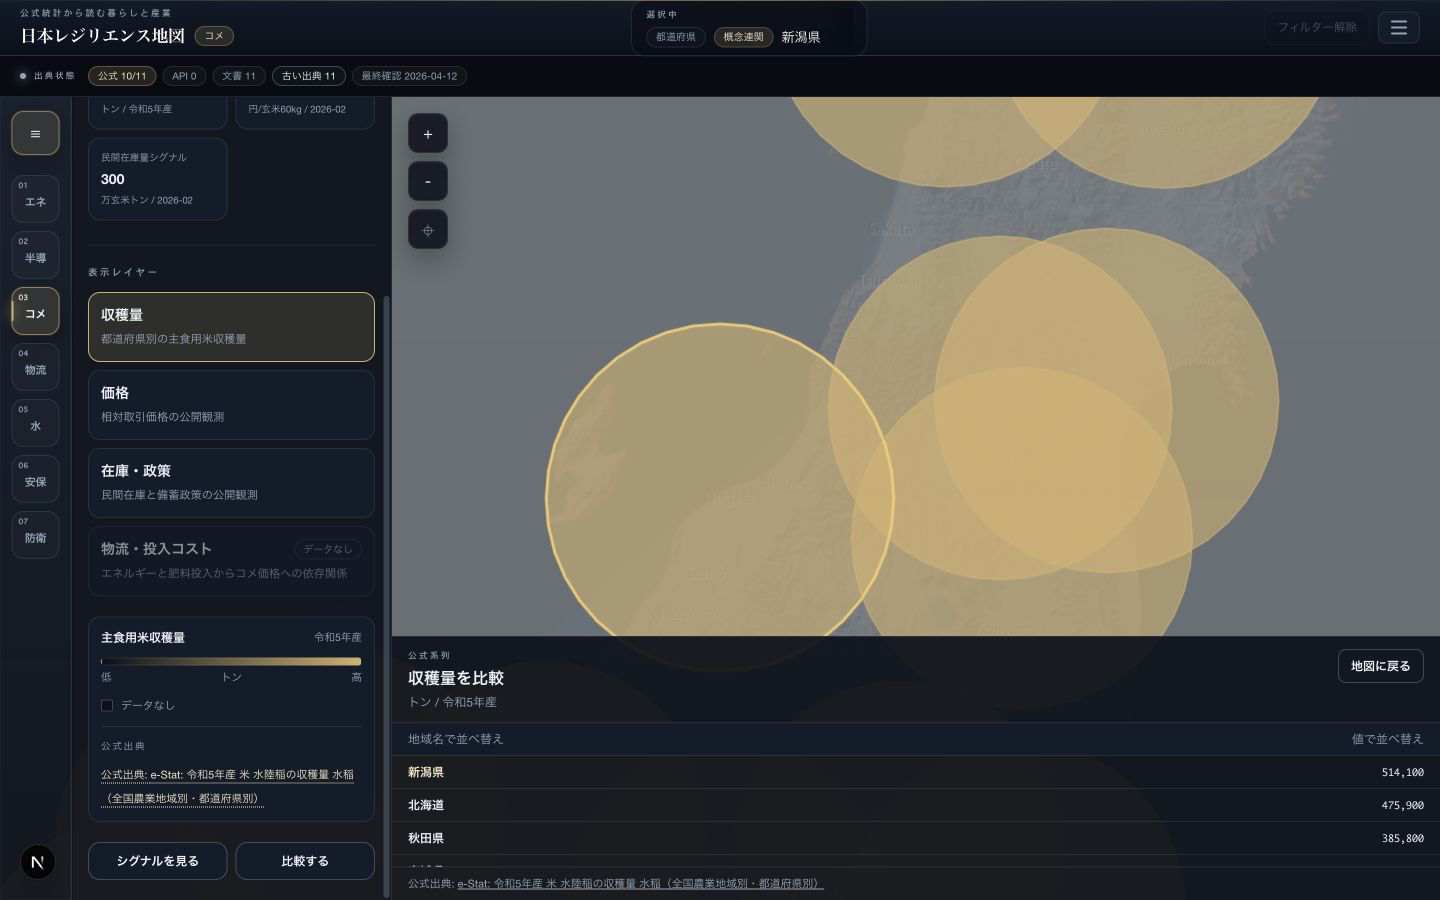
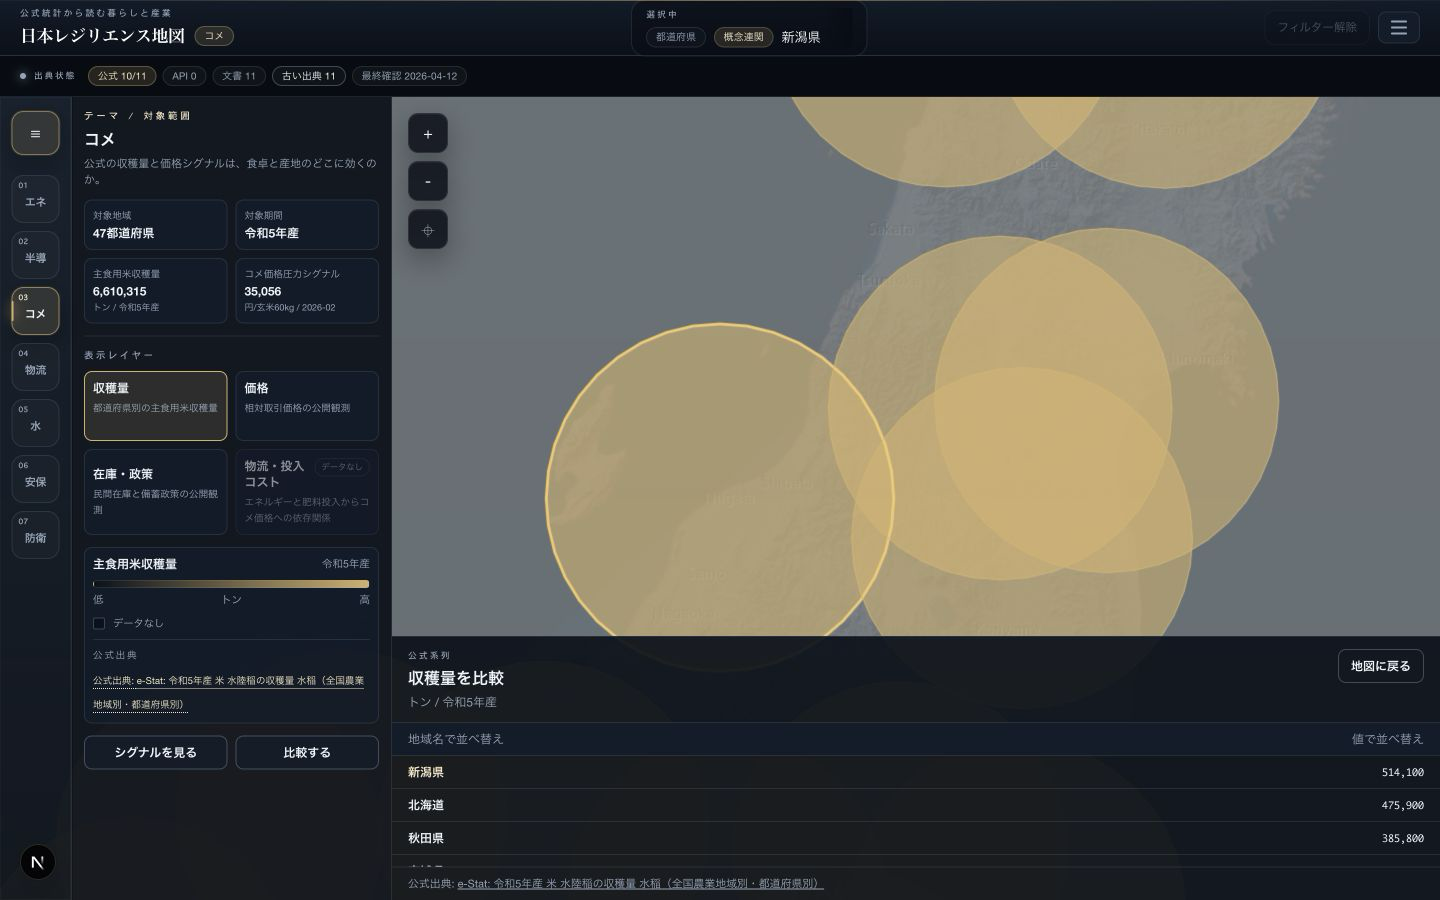
fix: keep desktop evidence visible and unique

diff --git a/components/ScopeContextPanel.tsx b/components/ScopeContextPanel.tsx
@@ -34,19 +34,19 @@ export function ScopeContextPanel({
   const resolvedActiveLayerId = activeLayer?.id;
 
   return (
-    <div data-testid="scope-context-panel" className="h-full overflow-y-auto px-4 py-5">
+    <div data-testid="scope-context-panel" className="h-full overflow-y-auto px-3 py-3">
       <div>
         <div className="font-mono text-[0.6rem] uppercase tracking-[0.28em]" style={{ color: themePalette.accentText }}>
           テーマ / 対象範囲
         </div>
-        <h2 className="mt-2 text-lg font-semibold" style={{ color: themePalette.textPrimary }}>{workspace.scope.title}</h2>
-        <p className="mt-2 text-[0.72rem] leading-5" style={{ color: themePalette.textMuted }}>{workspace.scope.description}</p>
+        <h2 className="mt-1 text-base font-semibold" style={{ color: themePalette.textPrimary }}>{workspace.scope.title}</h2>
+        <p className="mt-1 text-[0.68rem] leading-4" style={{ color: themePalette.textMuted }}>{workspace.scope.description}</p>
       </div>
 
-      <section aria-label="対象範囲の要約" className="mt-5 grid grid-cols-2 gap-2">
+      <section aria-label="対象範囲の要約" className="mt-3 grid grid-cols-2 gap-2">
         <SummaryCard label={workspace.scope.coverage.label} value={workspace.scope.coverage.value} themePalette={themePalette} />
         <SummaryCard label="対象期間" value={workspace.scope.periodLabel} themePalette={themePalette} />
-        {workspace.scope.metrics.slice(0, 4).map((metric) => (
+        {workspace.scope.metrics.slice(0, 2).map((metric) => (
           <SummaryCard
             key={metric.id}
             label={metric.label}
@@ -57,7 +57,7 @@ export function ScopeContextPanel({
         ))}
       </section>
 
-      <div className="mt-6 border-t pt-5" style={{ borderColor: themePalette.borderSubtle }}>
+      <div className="mt-3 border-t pt-3" style={{ borderColor: themePalette.borderSubtle }}>
         <SemanticLayerDeck
           activeLayerId={resolvedActiveLayerId}
           layers={workspace.layers}
@@ -67,7 +67,7 @@ export function ScopeContextPanel({
       </div>
 
       {activeLayer ? (
-        <div className="mt-5">
+        <div className="mt-3">
           <MapLegend
             legend={activeLayer.legend}
             periodLabel={activeLayer.periodLabel}
@@ -78,7 +78,7 @@ export function ScopeContextPanel({
         </div>
       ) : null}
 
-      <div className="mt-5 grid grid-cols-2 gap-2">
+      <div className="mt-3 grid grid-cols-2 gap-2">
         <SecondaryAction actionId="signals" label="シグナルを見る" onClick={onOpenSignals} themePalette={themePalette} />
         <SecondaryAction
           actionId="comparison"
@@ -104,10 +104,10 @@ function SummaryCard({
   value: string;
 }) {
   return (
-    <div className="rounded-xl border p-3" style={{ borderColor: themePalette.borderSubtle, background: themePalette.surfacePanelElevated }}>
+    <div className="rounded-lg border p-2" style={{ borderColor: themePalette.borderSubtle, background: themePalette.surfacePanelElevated }}>
       <div className="text-[0.6rem]" style={{ color: themePalette.textMuted }}>{label}</div>
-      <div className="mt-1 text-sm font-semibold" style={{ color: themePalette.textPrimary }}>{value}</div>
-      {detail ? <div className="mt-1 text-[0.6rem]" style={{ color: themePalette.textMuted }}>{detail}</div> : null}
+      <div className="mt-0.5 text-xs font-semibold" style={{ color: themePalette.textPrimary }}>{value}</div>
+      {detail ? <div className="mt-0.5 text-[0.56rem]" style={{ color: themePalette.textMuted }}>{detail}</div> : null}
     </div>
   );
 }
@@ -131,7 +131,7 @@ function SecondaryAction({
       data-secondary-action={actionId}
       disabled={disabled}
       onClick={onClick}
-      className="rounded-xl border px-3 py-2.5 text-xs font-semibold transition disabled:cursor-not-allowed disabled:opacity-55"
+      className="rounded-lg border px-3 py-2 text-xs font-semibold transition disabled:cursor-not-allowed disabled:opacity-55"
       style={{
         borderColor: themePalette.borderStrong,
         background: themePalette.surfacePanelElevated,

diff --git a/components/__tests__/operations-accessibility.test.tsx b/components/__tests__/operations-accessibility.test.tsx
@@ -1,9 +1,11 @@
 // @vitest-environment jsdom
 
-import { cleanup, fireEvent, render, screen, within } from "@testing-library/react";
+import { cleanup, fireEvent, render, screen, waitFor, within } from "@testing-library/react";
+import userEvent from "@testing-library/user-event";
 import { afterEach, describe, expect, test, vi } from "vitest";
 
 import { EvidencePanel } from "../EvidencePanel";
+import { AppShell } from "../AppShell";
 import { ContextInspector } from "../ContextInspector";
 import { JapanMainMap } from "../JapanMainMap";
 import { NavigationRail } from "../NavigationRail";
@@ -21,6 +23,11 @@ import type { WatchOverlayItemViewModel } from "../../lib/presentation/watch-ove
 
 vi.mock("../JapanOperationsMapCanvas", () => ({
   JapanOperationsMapCanvas: () => <div data-testid="ops-canvas" />
+}));
+
+vi.mock("next/navigation", () => ({
+  usePathname: () => "/",
+  useRouter: () => ({ replace: vi.fn() })
 }));
 
 afterEach(() => {
@@ -113,6 +120,33 @@ const watchOverlays: WatchOverlayItemViewModel[] = [
 ];
 
 describe("operations accessibility", () => {
+  test("keeps every desktop id and ARIA id reference unique in the real AppShell composition", async () => {
+    const user = userEvent.setup();
+
+    render(<AppShell graph={loadSeedGraph()} />);
+
+    const desktop = screen.getByTestId("layout-desktop-workspace");
+    expect(within(desktop).queryByTestId("layout-context-inspector")).toBeNull();
+    expect(within(desktop).queryByTestId("layout-compare-drawer")).toBeNull();
+    expect(within(desktop).queryByTestId("signals-panel")).toBeNull();
+    expectUniqueDesktopIdReferences(desktop);
+
+    await user.click(within(desktop).getByRole("button", { name: "シグナルを見る" }));
+    expect(within(desktop).getByTestId("signals-panel")).toBeTruthy();
+    expectUniqueDesktopIdReferences(desktop);
+
+    await user.click(within(within(desktop).getByTestId("signals-panel")).getByRole("button", { name: /新潟県/ }));
+    await waitFor(() => {
+      expect(within(desktop).getByTestId("layout-context-inspector")).toBeTruthy();
+      expect(within(desktop).queryByTestId("signals-panel")).toBeNull();
+    });
+    expectUniqueDesktopIdReferences(desktop);
+
+    await user.click(within(desktop).getByRole("button", { name: "比較する" }));
+    expect(within(desktop).getByTestId("layout-compare-drawer")).toBeTruthy();
+    expectUniqueDesktopIdReferences(desktop);
+  });
+
   test("exposes a logical scope, semantic-layer, and legend heading hierarchy", () => {
     const graph = loadSeedGraph();
     const view = getThemeView(graph, "rice");
@@ -339,3 +373,20 @@ describe("operations accessibility", () => {
     expect(screen.getByText("公式公開情報 / bounded overlay")).toBeTruthy();
   });
 });
+
+function expectUniqueDesktopIdReferences(desktop: HTMLElement) {
+  const desktopIds = Array.from(desktop.querySelectorAll<HTMLElement>("[id]")).map((element) => element.id);
+  const documentIds = Array.from(document.querySelectorAll<HTMLElement>("[id]")).map((element) => element.id);
+
+  expect(desktopIds.every(Boolean)).toBe(true);
+  expect(new Set(desktopIds).size).toBe(desktopIds.length);
+
+  for (const controller of desktop.querySelectorAll<HTMLElement>("[aria-controls], [aria-labelledby]")) {
+    for (const attribute of ["aria-controls", "aria-labelledby"] as const) {
+      for (const token of controller.getAttribute(attribute)?.split(/\s+/).filter(Boolean) ?? []) {
+        expect(documentIds.filter((id) => id === token), `${attribute}=${token} document target`).toHaveLength(1);
+        expect(desktopIds.filter((id) => id === token), `${attribute}=${token} desktop target`).toHaveLength(1);
+      }
+    }
+  }
+}

diff --git a/components/MapLegend.tsx b/components/MapLegend.tsx
@@ -25,7 +25,7 @@ export function MapLegend({
     <section
       role="region"
       aria-label={`${legend.title}の凡例`}
-      className="rounded-xl border p-3"
+      className="rounded-lg border p-2"
       style={{ borderColor: themePalette.borderSubtle, background: themePalette.surfacePanelElevated }}
     >
       <div className="flex items-start justify-between gap-3">
@@ -34,7 +34,7 @@ export function MapLegend({
       </div>
 
       {legend.kind === "continuous" ? (
-        <div className="mt-3">
+        <div className="mt-2">
           <div
             aria-hidden="true"
             className="h-2 rounded-full border"
@@ -48,7 +48,7 @@ export function MapLegend({
             {legend.unit ? <span>{legend.unit}</span> : null}
             <span>{legend.maxLabel ?? "高"}</span>
           </div>
-          <div className="mt-3 flex items-center gap-2 text-[0.68rem]" style={{ color: themePalette.textMuted }}>
+          <div className="mt-2 flex items-center gap-2 text-[0.64rem]" style={{ color: themePalette.textMuted }}>
             <span
               aria-hidden="true"
               className="h-3 w-3 rounded-sm border"
@@ -58,7 +58,7 @@ export function MapLegend({
           </div>
         </div>
       ) : (
-        <ul role="list" aria-label={legend.title} className="mt-3 space-y-2">
+        <ul role="list" aria-label={legend.title} className="mt-2 space-y-1.5">
           {categoricalItems.map((item) => (
             <li key={`${item.colorToken}:${item.label}`} className="flex items-center gap-2 text-[0.7rem]" style={{ color: themePalette.textMuted }}>
               <span
@@ -73,16 +73,16 @@ export function MapLegend({
       )}
 
       {officialSources.length ? (
-        <div className="mt-3 border-t pt-3" style={{ borderColor: themePalette.borderSubtle }}>
+        <div className="mt-2 border-t pt-2" style={{ borderColor: themePalette.borderSubtle }}>
           <div className="text-[0.6rem] uppercase tracking-[0.18em]" style={{ color: themePalette.textMuted }}>公式出典</div>
-          <ul className="mt-2 space-y-1">
+          <ul className="mt-1 space-y-1">
             {officialSources.map((source) => (
               <li key={source.id}>
                 <a
                   href={source.url}
                   target="_blank"
                   rel="noreferrer"
-                  className="text-[0.68rem] underline decoration-dotted underline-offset-4"
+                  className="text-[0.6rem] leading-4 underline decoration-dotted underline-offset-4"
                   style={{ color: themePalette.accentText }}
                 >
                   公式出典: {source.label}

diff --git a/components/SemanticLayerDeck.tsx b/components/SemanticLayerDeck.tsx
@@ -57,7 +57,7 @@ export function SemanticLayerDeck({
       >
         表示レイヤー
       </h3>
-      <div role="group" aria-label="表示レイヤー" className="mt-3 space-y-2">
+      <div role="group" aria-label="表示レイヤー" className="mt-2 grid grid-cols-2 gap-2">
         {layers.map((layer, index) => {
           const active = layer.available && layer.id === activeLayerId;
 
@@ -90,7 +90,7 @@ export function SemanticLayerDeck({
                   onLayerChange(layer.id);
                 }
               }}
-              className="w-full rounded-xl border px-3 py-3 text-left transition disabled:cursor-not-allowed disabled:opacity-55"
+              className="w-full rounded-lg border px-2 py-2 text-left transition disabled:cursor-not-allowed disabled:opacity-55"
               style={
                 active
                   ? {
@@ -105,15 +105,15 @@ export function SemanticLayerDeck({
                     }
               }
             >
-              <span className="flex items-center justify-between gap-3">
-                <span className="text-sm font-semibold">{layer.label}</span>
+              <span className="flex items-start justify-between gap-1.5">
+                <span className="text-xs font-semibold leading-4">{layer.label}</span>
                 {!layer.available ? (
-                  <span className="rounded-full border px-2 py-0.5 text-[0.62rem]" style={{ borderColor: themePalette.borderSubtle, color: themePalette.textMuted }}>
+                  <span className="shrink-0 rounded-full border px-1.5 py-0.5 text-[0.52rem]" style={{ borderColor: themePalette.borderSubtle, color: themePalette.textMuted }}>
                     データなし
                   </span>
                 ) : null}
               </span>
-              <span className="mt-1 block text-[0.7rem] leading-5" style={{ color: themePalette.textMuted }}>
+              <span className="mt-1 block h-8 overflow-hidden text-[0.6rem] leading-4" style={{ color: themePalette.textMuted }}>
                 {layer.description}
               </span>
             </button>

diff --git a/components/__tests__/scope-context-panel.test.tsx b/components/__tests__/scope-context-panel.test.tsx
@@ -33,6 +33,17 @@ describe("ScopeContextPanel", () => {
     );
 
     const panel = screen.getByTestId("scope-context-panel");
+    const summary = screen.getByRole("region", { name: "対象範囲の要約" });
+    const layerRegion = screen.getByRole("region", { name: "表示レイヤー" });
+    const layerGroup = screen.getByRole("group", { name: "表示レイヤー" });
+    const legend = screen.getByRole("region", { name: "主食用米収穫量の凡例" });
+    const signalsAction = screen.getByRole("button", { name: "シグナルを見る" });
+
+    expect(panel.className).toContain("px-3");
+    expect(panel.className).toContain("py-3");
+    expect(summary.children).toHaveLength(4);
+    expect(layerGroup.className).toContain("grid-cols-2");
+    expect(legend.className).toContain("p-2");
     expect(screen.getByText("47都道府県")).toBeTruthy();
     expect(screen.getByText("6,610,315")).toBeTruthy();
     expect(screen.getAllByText("令和5年産").length).toBeGreaterThan(0);
@@ -44,6 +55,9 @@ describe("ScopeContextPanel", () => {
     expect(text.indexOf(workspace.scope.description)).toBeLessThan(text.indexOf("収穫量"));
     expect(text.indexOf("収穫量")).toBeLessThan(text.indexOf("主食用米収穫量"));
     expect(text.indexOf("主食用米収穫量")).toBeLessThan(text.indexOf("シグナルを見る"));
+    expect(summary.compareDocumentPosition(layerRegion) & Node.DOCUMENT_POSITION_FOLLOWING).toBeTruthy();
+    expect(layerRegion.compareDocumentPosition(legend) & Node.DOCUMENT_POSITION_FOLLOWING).toBeTruthy();
+    expect(legend.compareDocumentPosition(signalsAction) & Node.DOCUMENT_POSITION_FOLLOWING).toBeTruthy();
   });
 
   test("routes semantic-layer and secondary-view actions", async () => {

diff --git a/components/EvidencePanel.tsx b/components/EvidencePanel.tsx
@@ -317,10 +317,11 @@ export function EvidenceSurface({
           </TabButton>
         </div>
 
-        {tab === "summary" ? (
+        {accessibleTabs || tab === "summary" ? (
           <div
             aria-labelledby={accessibleTabs ? getTabId("summary") : undefined}
             className="mt-4 space-y-4"
+            hidden={accessibleTabs && tab !== "summary"}
             id={accessibleTabs ? getPanelId("summary") : undefined}
             role={accessibleTabs ? "tabpanel" : undefined}
           >
@@ -486,10 +487,11 @@ export function EvidenceSurface({
           </div>
         ) : null}
 
-        {tab === "sources" ? (
+        {accessibleTabs || tab === "sources" ? (
           <div
             aria-labelledby={accessibleTabs ? getTabId("sources") : undefined}
             className="mt-4 space-y-4"
+            hidden={accessibleTabs && tab !== "sources"}
             id={accessibleTabs ? getPanelId("sources") : undefined}
             role={accessibleTabs ? "tabpanel" : undefined}
           >
@@ -582,10 +584,11 @@ export function EvidenceSurface({
           </div>
         ) : null}
 
-        {tab === "related" ? (
+        {accessibleTabs || tab === "related" ? (
           <div
             aria-labelledby={accessibleTabs ? getTabId("related") : undefined}
             className="mt-4 space-y-4"
+            hidden={accessibleTabs && tab !== "related"}
             id={accessibleTabs ? getPanelId("related") : undefined}
             role={accessibleTabs ? "tabpanel" : undefined}
           >
